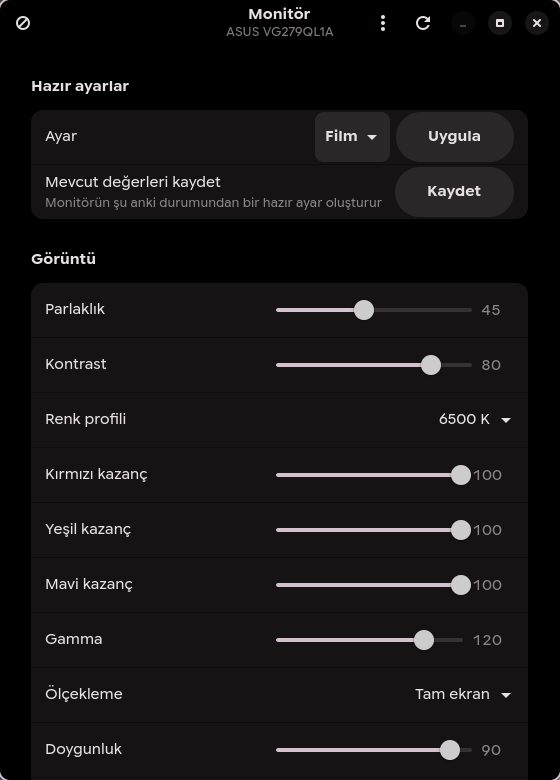
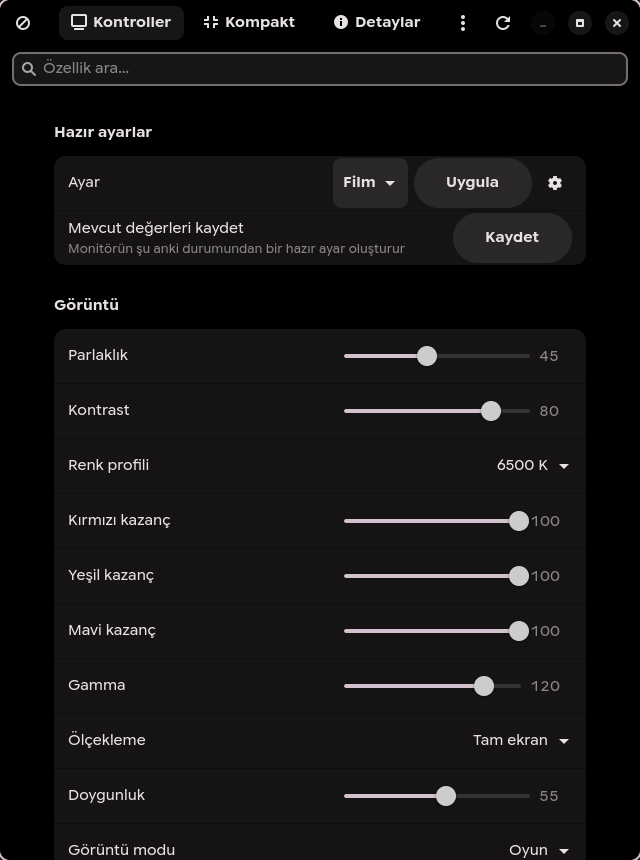
Release 1.4.1: load saved presets and refresh screenshots
- Call _populate_presets() when the window is built (saved presets were
  missing from the dropdown)
- Compact mode resizes the window on Hyprland
- Proper dialog titles for Settings and the preset manager
- Add app.details and app.presets actions
- Refresh README and AppStream screenshots (controls, details, compact,
  settings, presets)

diff --git a/nitor/ui.py b/nitor/ui.py
@@ -449,6 +449,7 @@ class MonitorWindow(Adw.ApplicationWindow):
         container.append(self._search_entry)
         container.append(page)
 
+        self._populate_presets()
         self._view_stack.add_titled_with_icon(
             container, "controls", _("view.controls"), "video-display-symbolic"
         )
@@ -791,7 +792,7 @@ class MonitorWindow(Adw.ApplicationWindow):
         dialog.present(self)
 
     def show_preset_manager(self) -> None:
-        dialog = Adw.PreferencesDialog()
+        dialog = Adw.PreferencesDialog(title=_("preset.manage_title"))
         page = Adw.PreferencesPage()
         dialog.add(page)
         self._manager_group = Adw.PreferencesGroup(title=_("preset.manage_title"))
@@ -943,7 +944,7 @@ class MonitorWindow(Adw.ApplicationWindow):
 
     # ------------------------------------------------------------- settings --
     def show_settings(self) -> None:
-        dialog = Adw.PreferencesDialog()
+        dialog = Adw.PreferencesDialog(title=_("settings.title"))
         page = Adw.PreferencesPage()
         dialog.add(page)
 
@@ -1544,6 +1545,30 @@ class MonitorWindow(Adw.ApplicationWindow):
         if self._release_url:
             Gio.AppInfo.launch_default_for_uri(self._release_url, None)
 
+    def resize_for_view(self, name: str) -> None:
+        """Shrink the window in compact mode on Hyprland (best effort)."""
+        height = 420 if name == "compact" else 860
+        if not shutil.which("hyprctl"):
+            return
+        try:
+            active = json.loads(
+                subprocess.run(
+                    ["hyprctl", "activewindow", "-j"],
+                    capture_output=True, text=True, timeout=2, check=False,
+                ).stdout
+            )
+        except (OSError, ValueError, subprocess.SubprocessError):
+            return
+        if active.get("class") != __app_id__:
+            return
+        subprocess.run(
+            [
+                "hyprctl", "eval",
+                f"hl.dispatch(hl.dsp.window.resize({{ x = 640, y = {height}, relative = false }}))",
+            ],
+            capture_output=True, timeout=3, check=False,
+        )
+
     # ------------------------------------------------------------- hotplug --
     def start_hotplug(self) -> None:
         GLib.timeout_add_seconds(15, self._poll_displays)
@@ -1608,6 +1633,14 @@ class NitorApplication(Adw.Application):
         compact.connect("activate", lambda *_: self._compact_action())
         self.add_action(compact)
 
+        details = Gio.SimpleAction.new("details", None)
+        details.connect("activate", lambda *_: self._show_view("details"))
+        self.add_action(details)
+
+        presets_action = Gio.SimpleAction.new("presets", None)
+        presets_action.connect("activate", lambda *_: self._show_presets())
+        self.add_action(presets_action)
+
         quit_action = Gio.SimpleAction.new("quit", None)
         quit_action.connect("activate", lambda *_: self.quit())
         self.add_action(quit_action)
@@ -1621,13 +1654,22 @@ class NitorApplication(Adw.Application):
         if self._window is not None:
             self._window.check_updates()
 
+    def _show_view(self, name: str) -> None:
+        if self._window is not None:
+            self._window._view_stack.set_visible_child_name(name)
+            self._window.resize_for_view(name)
+
+    def _show_presets(self) -> None:
+        if self._window is not None:
+            self._window.show_preset_manager()
+
     def _compact_action(self) -> None:
         if self._window is None:
             return
         stack = self._window._view_stack
-        stack.set_visible_child_name(
-            "controls" if stack.get_visible_child_name() == "compact" else "compact"
-        )
+        target = "controls" if stack.get_visible_child_name() == "compact" else "compact"
+        stack.set_visible_child_name(target)
+        self._window.resize_for_view(target)
 
     def _on_about(self, *_args) -> None:
         dialog = Adw.AboutDialog(

diff --git a/nitor/__init__.py b/nitor/__init__.py
@@ -5,7 +5,7 @@ actually reports in its capabilities string.  It is intentionally a thin,
 dependency-light layer: no kernel modules, no vendor drivers, no daemons.
 """
 
-__version__ = "1.4.0"
+__version__ = "1.4.1"
 __app_id__ = "io.github.hamzaless.Nitor"
 __author__ = "Hamzaless"
 __license__ = "MIT"

diff --git a/CHANGELOG.md b/CHANGELOG.md
@@ -18,6 +18,19 @@ and this project adheres to [Semantic Versioning](https://semver.org/).
 - Tag based release workflow: `v*` tags run lint and tests, then publish a
   GitHub release with generated notes.
 
+## [1.4.1] - 2026-10-27
+
+### Fixed
+
+- Saved presets were not loaded into the dropdown when the window opened.
+- Compact mode now shrinks the window on Hyprland instead of leaving a tall
+  empty page.
+- Dialog titles for Settings and the preset manager.
+
+### Added
+
+- `app.details` and `app.presets` actions, usable from scripts and DBus.
+
 ## [1.4.0] - 2026-10-27
 
 ### Added
@@ -107,6 +120,7 @@ and this project adheres to [Semantic Versioning](https://semver.org/).
 - Single instance behaviour and an About dialog.
 - Unit tests, lint configuration and GitHub Actions CI.
 
+[1.4.1]: https://github.com/Hamzaless/nitor/releases/tag/v1.4.1
 [1.4.0]: https://github.com/Hamzaless/nitor/releases/tag/v1.4.0
 [1.3.0]: https://github.com/Hamzaless/nitor/releases/tag/v1.3.0
 [1.2.1]: https://github.com/Hamzaless/nitor/releases/tag/v1.2.1

diff --git a/README.md b/README.md
@@ -15,6 +15,14 @@ GTK 4 / libadwaita window.
 
 ![Nitor screenshot](docs/screenshot.png)
 
+| Details | Compact | Settings |
+| --- | --- | --- |
+| [![Details](docs/details.png)](docs/details.png) | [![Compact](docs/compact.png)](docs/compact.png) | [![Settings](docs/settings.png)](docs/settings.png) |
+
+| Presets |  |
+| --- | --- |
+| [![Preset manager](docs/presets.png)](docs/presets.png) | |
+
 ## Why another monitor tool?
 
 Most DDC tools are either a raw command line or an old Qt dialog with a wall of
